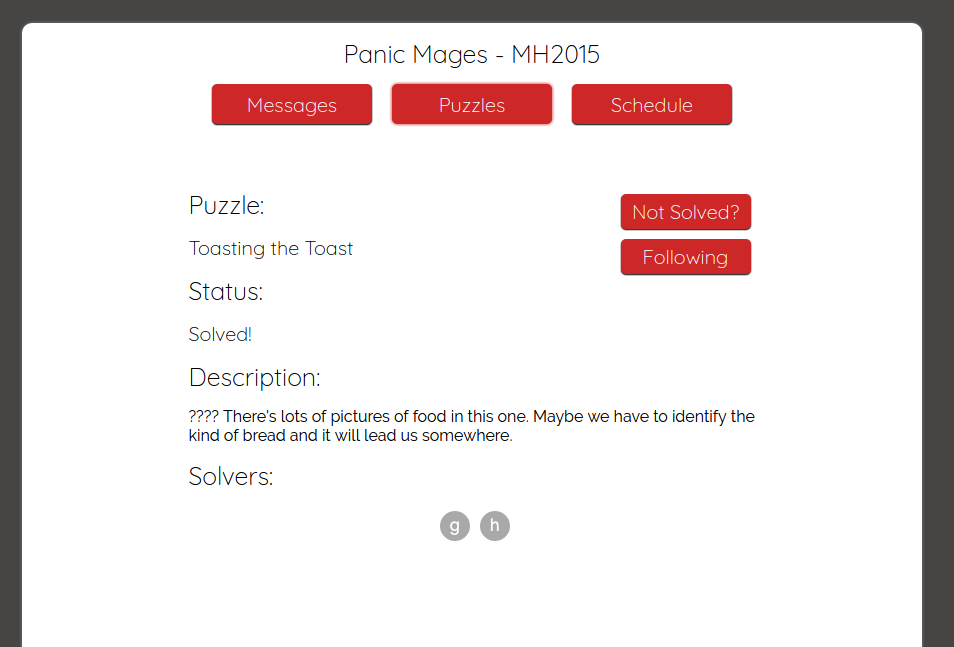
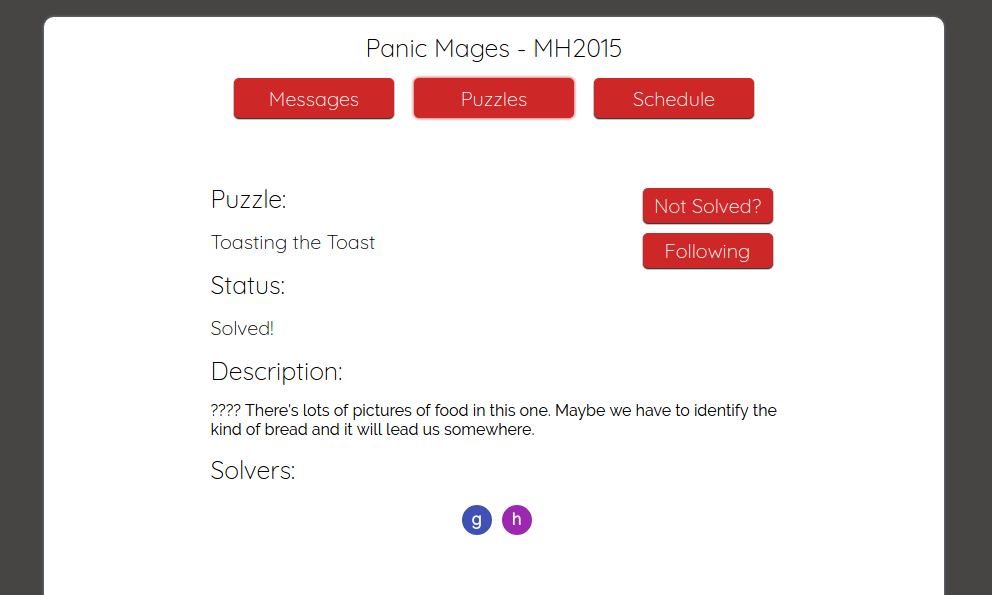
Update production readme with hash color code

diff --git a/README.md b/README.md
@@ -22,6 +22,33 @@ Puzzling! is a full-stack web application built to manage teams for puzzle hunt 
 
 On login, API calls are made to fetch the current user's teams and unsolved puzzles. Clicking on the "Unsolved" or "Solved" tabs will make the appropriate requests to fetch puzzles and update the Redux store. Team creation can be done quickly on this page, with the form React component rendering directly in the "Add a Team" card.
 
+Team cards show user icons for the collection of users on the team. The icon colors are generated by hashing the username with the djb2 hash and indexing into an array of colors:
+
+```javascript
+// djb2.js
+export default (str, nBins = null) => {
+  let hash = 5381;
+  for (let i = 0; i < str.length; i++) {
+    hash = ((hash << 5) + hash) + str.charCodeAt(i);
+  }
+
+  return (nBins) ? ((hash % nBins) + nBins) % nBins : hash;
+};
+
+// user_icon.jsx
+const UserIcon = ({username}) => {
+  let color = colors[djb2(username, colors.length)];
+
+  return (
+    <div className={`user-icon-small ${color}`}
+      title={username}
+      alt={username}>
+      <h5>{username[0]}</h5>
+    </div>
+  );
+};
+```
+
 #### Quickly see a snapshot of your team activity
 ![team home screenshot](docs/screenshots/team-home.png)
 
